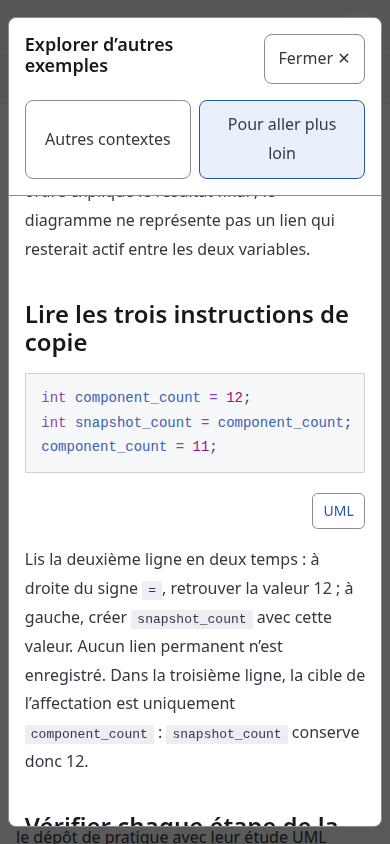
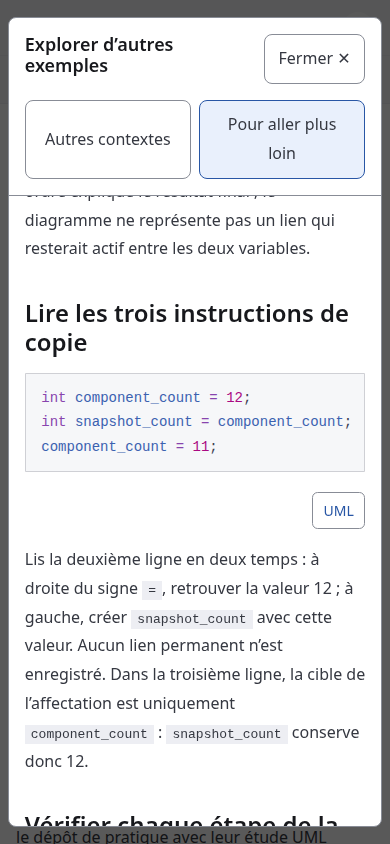
fix(reader): keep diagram typography at its natural scale
Refs #6. Keep white diagram containers full width while centering intrinsic-size SVGs. Name the reading region and retain full accessibility diagnostics with checked popover contrast.

diff --git a/src/styles/custom.css b/src/styles/custom.css
@@ -20,11 +20,21 @@
 .sl-markdown-content p { max-width: 72ch; }
 .sl-markdown-content h2 { margin-top: 2.4rem; }
 .sl-markdown-content img { background: var(--course-paper); border-radius: .25rem; }
-.sl-markdown-content p:has(> img[src^='/diagrams/']) { max-width: none; }
+/* Keep the paper full width without enlarging the SVG's authored typography. */
+.sl-markdown-content p:has(> img[src^='/diagrams/']) {
+  box-sizing: border-box;
+  width: 100%;
+  max-width: none;
+  padding: 1rem;
+  background: var(--course-paper);
+  border-radius: .25rem;
+}
 .sl-markdown-content img[src^='/diagrams/'] {
   display: block;
-  width: 100%;
+  width: auto;
+  max-width: 100%;
   height: auto;
+  margin-inline: auto;
 }
 
 /* Native disclosure keeps code and conception together, including inside dialogs. */

diff --git a/tests/explorer-browser.py b/tests/explorer-browser.py
@@ -35,6 +35,10 @@ try:
             page.on('response', lambda response: errors.append(f'HTTP {response.status}: {response.url}') if response.status >= 400 else None)
             for route in ['/notions/cpp-01/', '/exemple-voyant/']:
                 page.goto(base + route)
+                # Regression: the paper spans the content, but the SVG must never be upscaled.
+                for diagram in page.locator('img[src^="/diagrams/"]:visible').all():
+                    assert diagram.evaluate('el => el.getBoundingClientRect().width <= el.naturalWidth + 1')
+                    assert diagram.evaluate('el => Math.abs(el.parentElement.getBoundingClientRect().width - el.parentElement.parentElement.getBoundingClientRect().width) < 2')
                 opener = page.locator('[data-open]')
                 opener.scroll_into_view_if_needed()
                 position = page.evaluate('scrollY')
@@ -70,7 +74,7 @@ try:
                         expect(card.locator('table')).to_be_visible()
                         expect(card).to_have_css('opacity', '1')
                         page.screenshot(path=str(artifacts / f'{engine}-{width}-card-{category}.png'))
-                        assert card.locator('img').evaluate('el => el.complete && el.naturalWidth > 0')
+                        assert card.locator('img').evaluate('el => el.complete && el.naturalWidth > 0 && el.getBoundingClientRect().width <= el.naturalWidth + 1')
                         assert card.evaluate('el => {const r=el.getBoundingClientRect(); return r.left >= 0 && r.right <= innerWidth+1 && r.bottom <= innerHeight+1 && el.scrollWidth <= el.clientWidth+1;}')
                         card.locator('.uml-close').focus()
                         page.keyboard.press('Escape')

diff --git a/docs/reviews/example-reader-pilot/README.md b/docs/reviews/example-reader-pilot/README.md
@@ -25,7 +25,7 @@ No new runtime package, database, content request, persistence, browser compiler
 - `python3 tests/example-code.py`: all ten actual C++ excerpts checked, including intermediate values, independent copy, valid-domain reservoir boundaries, strict/inclusive boundaries, rejected const assignment and a boundary mutation that must fail.
 - `python3 tests/explorer-invalid-content.py`: build rejects duplicate IDs, unknown category, missing prerequisite page, missing sheet, duplicate host reference and empty pilot category. Source mutations occur in a temporary copy.
 - `npm run test:browser`: source-mapped V8 line coverage of the two authored browser modules is 170/170 (100%); the runner enforces an 80% floor. This measures line execution, not branch completeness, teaching quality or Astro rendering coverage. Build-time collection configuration is exercised by integration probes and excluded from the browser coverage denominator.
-- Nine axe-core scans of course pages, dialogs and cards report no WCAG A/AA violations. Scans wait for the accepted fade to settle. Incomplete automated checks remain visible in `coverage/accessibility.json`; this does not establish complete accessibility conformance or replace assistive-technology testing.
+- Nine axe-core scans of course pages, dialogs and cards report no WCAG A/AA violations. Scans wait for the accepted fade to settle. Full incomplete-result diagnostics remain visible in `coverage/accessibility.json`. Review found and fixed an unnamed-role ARIA labeling issue by making the focusable reading container a named region. axe still reports a native-popover overlap uncertainty for two text nodes; the test resolves only this exact case by checking browser hit order, an opaque settled background and a contrast ratio of at least 4.5:1 using axe’s color calculation. Other serious/critical incomplete results fail the suite. This does not establish complete accessibility conformance or replace assistive-technology testing.
 - Public TypeScript documentation presence: 3/3 exports, 100%, counted using the TypeScript AST. Contract quality/freshness also inspected manually.
 - All ten local PlantUML sources render via `plantuml -tsvg -pipe`; seven copied snapshots are byte-identical to their authoritative local SVGs. The published strict indicator snapshot is unchanged.
 - Gitleaks: no leaks in all 35 reachable commits or in a temporary copy of the non-ignored working snapshot. No tracked `.env*` files. Manual source/diff inspection found no credentials or credential-bearing links.
@@ -47,7 +47,7 @@ WebKit 27.2 passes using the matching Ubuntu 26.04 Playwright build, Python Play
 | Narrow dark presentation | [320px card](narrow-dark-card.png) |
 | Text reflow | [200% text](text-enlargement.png) |
 
-Generated HTML sizes: CPP-01 51,968 bytes; guided indicator 69,194 bytes, uncompressed. These are local pilot measurements, not a measured growth comparison or a performance budget for wider rollout. Companion text is excluded from Pagefind indexing. No runtime teaching-content fetch occurs.
+Generated HTML sizes: CPP-01 51,982 bytes; guided indicator 69,208 bytes, uncompressed. These are local pilot measurements, not a measured growth comparison or a performance budget for wider rollout. Companion text is excluded from Pagefind indexing. No runtime teaching-content fetch occurs.
 
 ## Structured critical review
 
@@ -92,8 +92,14 @@ Review one material point at a time, classifying it as keep, improve, reject, de
 
 1. Remaining dependency advisory: **approved — A, defer migration with recorded reachability**, tracked in #7; weights validated.
 2. Teaching pilot: **approved — A, keep the current teaching pilot (475/500)**, including the reservoir invalid-input explanation; editorial weights validated. Alternative B, shorten that passage, scored 460/500. Criteria: accepted contract 35%, self-contained explanation 30%, single-difficulty focus 25%, change/verification cost 10%. No teaching content was changed.
-3. Reader and cards: mobile reading, diagram readability, focus/closing and opacity timing using the local preview.
+3. Reader and cards: **approved — A, keep current reader and card timing (480/500)**; weights validated. Alternative B, immediate cards without delay/fades, scored 410/500. Criteria: approved presentation 40%, keyboard/motion support 30%, response latency 20%, change/verification cost 10%. The owner then requested natural-size diagrams inside full-width white paper: implemented with no SVG upscaling, centered diagrams and shrinking only when space is limited. CPP-01 measures 227px diagram width in 756px desktop paper and 358px mobile paper; SVG and prose labels both use 16px at the normal page size. Motion timing remains approved.
 4. Evidence and limits: automated accessibility/coverage scope, source provenance, warnings and tracking-board choice.
 5. Final scope and PR authorization only after approved improvements and fresh checks.
 
 No push, PR, deployment, Copilot request or merge has occurred. Final PR-head checks, individual review-comment handling and post-merge cleanup remain future gates.
+
+## Owner-directed diagram sizing refinement
+
+The former `width: 100%` stretched small SVGs and enlarged their text. The paper container now fills the content width independently from the centered image. Images use their intrinsic width and a 100% maximum, so they shrink only when necessary. SVG bytes and authoritative source diagrams are unchanged. Regression checks cover natural-size bounds in both the lesson and open cards.
+
+[Desktop diagram sizing](desktop-diagram-sizing.png) · [Mobile diagram sizing](mobile-diagram-sizing.png)
